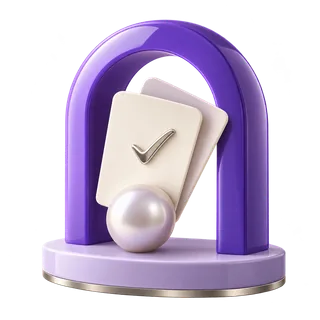
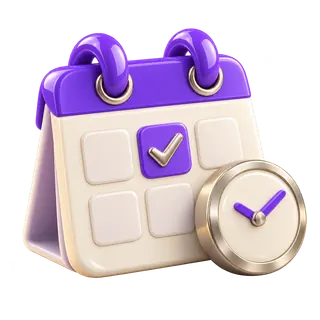
Give Book and Live distinct 3D appointment and event artwork (#28)
Replace Book and Live arch illustrations with a calendar and clock, and an admission ticket, microphone and spotlights. Preserve the existing transparent 320px/640px asset paths, clarify fallback glyphs and Home subtitles, and verify artwork checksums and budgets.

Validated with all 121 prebuild checks, the Vercel preview build, desktop Home and mobile light/dark review.

diff --git a/components/marketplace-home.js b/components/marketplace-home.js
@@ -33,8 +33,8 @@ export const MARKETPLACE_SERVICES = [
   { key: "ride", label: "Ride", subtitle: "Get anywhere", icon: CarFront, tone: "ride" },
   { key: "eat", label: "Bite", subtitle: "Food around you", icon: UtensilsCrossed, tone: "eat" },
   { key: "shop", label: "Shopper", subtitle: "Find what you need", icon: ShoppingBag, tone: "shop" },
-  { key: "book", label: "Book", subtitle: "Services & places", icon: Sparkles, tone: "book" },
-  { key: "events", label: "Live", subtitle: "What’s happening", icon: CalendarDays, tone: "events" },
+  { key: "book", label: "Book", subtitle: "Appointments & services", icon: CalendarDays, tone: "book" },
+  { key: "events", label: "Live", subtitle: "Events & tickets", icon: Ticket, tone: "events" },
   { key: "send", label: "Send", subtitle: "Move a package", icon: Package, tone: "send" }
 ];
 

diff --git a/components/service-artwork.js b/components/service-artwork.js
@@ -3,11 +3,11 @@
 import Image from "next/image";
 import { useState } from "react";
 import { useReducedMotion } from "framer-motion";
-import { CalendarDays, CarFront, Package, ShoppingBag, Sparkles, UtensilsCrossed } from "lucide-react";
+import { CalendarClock, CarFront, Package, ShoppingBag, Sparkles, Ticket, UtensilsCrossed } from "lucide-react";
 import { cn } from "@/lib/cn";
 import { serviceIdentity } from "@/lib/service-identity";
 
-const iconMap = { eat: UtensilsCrossed, shop: ShoppingBag, book: Sparkles, events: CalendarDays, ride: CarFront, send: Package };
+const iconMap = { eat: UtensilsCrossed, shop: ShoppingBag, book: CalendarClock, events: Ticket, ride: CarFront, send: Package };
 
 export function ServiceGlyph({ service, className }) {
   const Icon = iconMap[service] || Sparkles;

diff --git a/public/experience/services/README.md b/public/experience/services/README.md
@@ -2,7 +2,7 @@
 
 Decorative product illustrations for Home, service entrances, First Access and Search. These are not merchant photographs, inventory, maps or evidence of service availability. Approved logo artwork remains at `/api/branding/assets/` and is never baked into these illustrations.
 
-Created using the built-in image-generation workflow on 30 October 2026. Original transparent PNGs were encoded as WebP at 320px and 640px, preserving alpha. No original image is fetched at runtime. The 320px family totals about 141KB; each 640px entrance asset is below 70KB. See the automated asset and contrast checks in `tests/premium-experience-2026.test.mjs`.
+Created using the built-in image-generation workflow on 30 October 2026. Book and Live were integrated on 31 October 2026 with more recognizable appointment and event imagery. Original transparent PNGs were encoded as WebP at 320px and 640px, preserving alpha. No original image is fetched at runtime. The 320px family totals 126,106 bytes; each 640px entrance asset is below 80,000 bytes. See the automated asset and contrast checks in `tests/premium-experience-2026.test.mjs`.
 
 ## Production prompt set
 
@@ -16,8 +16,8 @@ Each asset added its own subject brief:
 - **shopper:** Subject: a structured fresh mint green reusable shopping tote, thick rolled handles, a cream rectangular package and one glossy green apple rising from its opening, a small pale mint cylinder beside it. Color emphasis official Spotly Shopper #10C981, warm ivory and a tiny soft violet accent. Tactile, organized, beautifully simple.
 - **ride:** Subject: a continuous flowing cobalt blue ribbon bent into a graceful elevated road with one sweeping banked curve and two small brushed silver lane lines; a compact unbranded silver-blue car riding the curve. A single small blue polished spherical destination marker. Color emphasis official Spotly Ride #2F80FF and cool pearl. Dynamic spatial intelligence, confidence, clean controlled geometry, not a city diorama.
 - **send:** Subject: a softly beveled lavender parcel cube wrapped with one semi-transparent lilac band, with a sculptural violet curved route ribbon floating gracefully around it and ending in one small polished sphere. Tiny pearl metal corner detail. Color emphasis official Spotly Send #A855F7 and soft lilac. Precise, reliable, premium parcel movement.
-- **book:** Subject: a quiet architectural violet arch standing on a low pale-lilac oval plinth, with two lightly fanned cream appointment cards and one smooth pearl sphere poised within the arch. One small silver check-shaped sculptural inlay on the top card. Color emphasis official Spotly Book #7C3AED, warm ivory and lavender. Calm, composed, elegant space and time; no numbers or text.
-- **live:** Subject: a small sculptural stage formed by two concentric deep pink translucent arched portals on a dark cherry oval platform, a pearlescent ticket shape leaning against the edge, and one polished pink sphere suspended at the arch center. Controlled pink glowing reflections and one slender chrome spotlight cone. Color emphasis official Spotly Live #FF2D6F with cherry red and pearl. Cultural energy, refined atmosphere, no confetti.
+- **book (replacement art direction):** A violet and warm-ivory standing appointment calendar, two substantial purple binding loops, a highlighted appointment tile with a brushed-metal check, and a clear analog clock leaning at the lower right. Color emphasis official Spotly Book #7C3AED. Sculptural glossy ceramic and restrained warm metal; unmistakable appointments and time, no text or numbers.
+- **live (replacement art direction):** A saturated pink admission ticket with unmistakable notched edges, a perforated stub and raised pearl star, accompanied by a microphone and two pink spotlights. Color emphasis official Spotly Live #FF2D6F with pearl and restrained warm metal. Sculptural studio rendering with an energetic diagonal silhouette; unmistakable events and performances, no text or lettering.
 
 ## Integration contract
 

diff --git a/docs/BOOK-LIVE-ARTWORK-HANDOFF-2026-10-30.md b/docs/BOOK-LIVE-ARTWORK-HANDOFF-2026-10-30.md
@@ -1,0 +1,29 @@
+# Book + Live illustration release
+
+**Status:** All four transparent WebP files are integrated. The former upload blocker is resolved. Require a passing Vercel preview build and review before merging.
+
+## What is already changed
+- Book fallback icon is now a calendar with a clock, not generic sparkles.
+- Live fallback icon is now a ticket, not a calendar.
+- Home service descriptions distinguish appointments from events. Service routes and capabilities are unchanged.
+- A file-hash test records the actual optimized encodings of the selected new renders and prevents shipping the old 3D images.
+
+## Integrated files
+The following existing paths in `public/experience/services/` on `feat/spotly-book-live-artwork-20261030` now contain the new artwork:
+
+- `book-320.webp`
+- `book-640.webp`
+- `live-320.webp`
+- `live-640.webp`
+
+Book now shows a violet appointment calendar, highlighted check and analog clock. Live shows a pink admission ticket, microphone and spotlights. The built-in image-generated renders retain the existing 3D material family, with true alpha transparency. Approved logos remain separate. The images use the existing 320/640 WebP asset contract, with no new dependencies or external fetch. The Live 640 export is 78,986 bytes, below the 80,000-byte cap; each compact image is below 30,000 bytes. Original PNGs remain unchanged.
+
+## Verification
+1. Keep all four image replacements **on this PR's feature branch**, never directly on `main`.
+2. Ensure Vercel runs **all prebuild checks and production-style Next.js preview build** successfully.
+3. Review Home cards on desktop and mobile at light/dark appearance, including their 3D edges/transparency and text overlap.
+4. Inspect Book and Live service entrances and all six service illustrations together for material/lighting consistency.
+5. Verify no transactions, service enablement, routes or profile permissions changed.
+6. Merge only after the user approves the preview. Vercel will deploy automatically when merged into `main`.
+
+The asset SHA256 gate now matches the integrated image encodings. This artwork integration does not change transactions, service availability, routes, profile permissions, taxonomy or ranking. No production changes are authorized by this draft.
